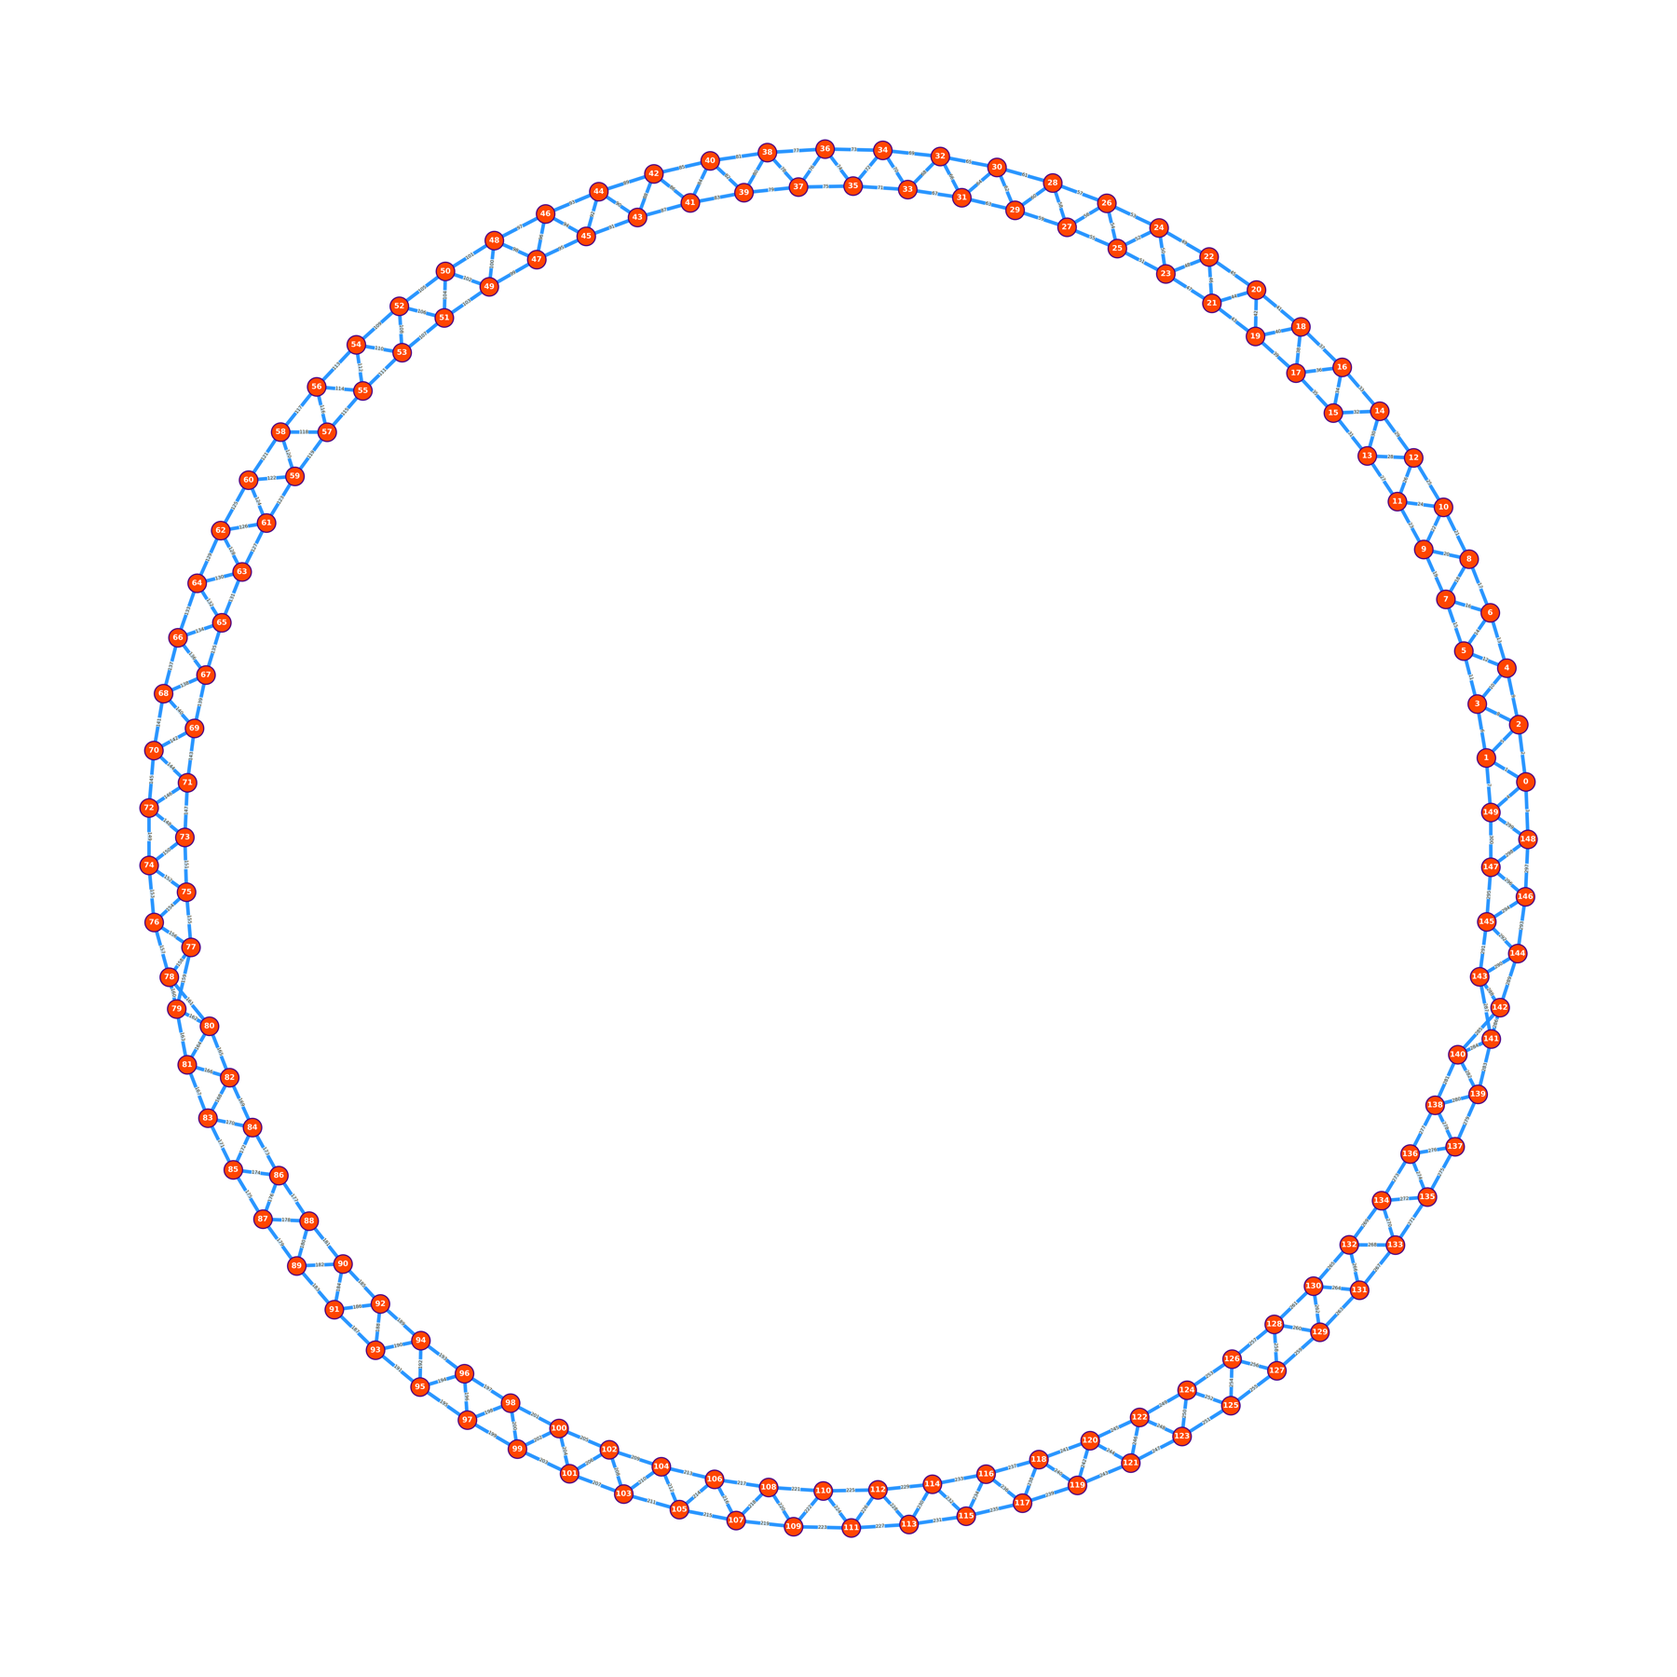
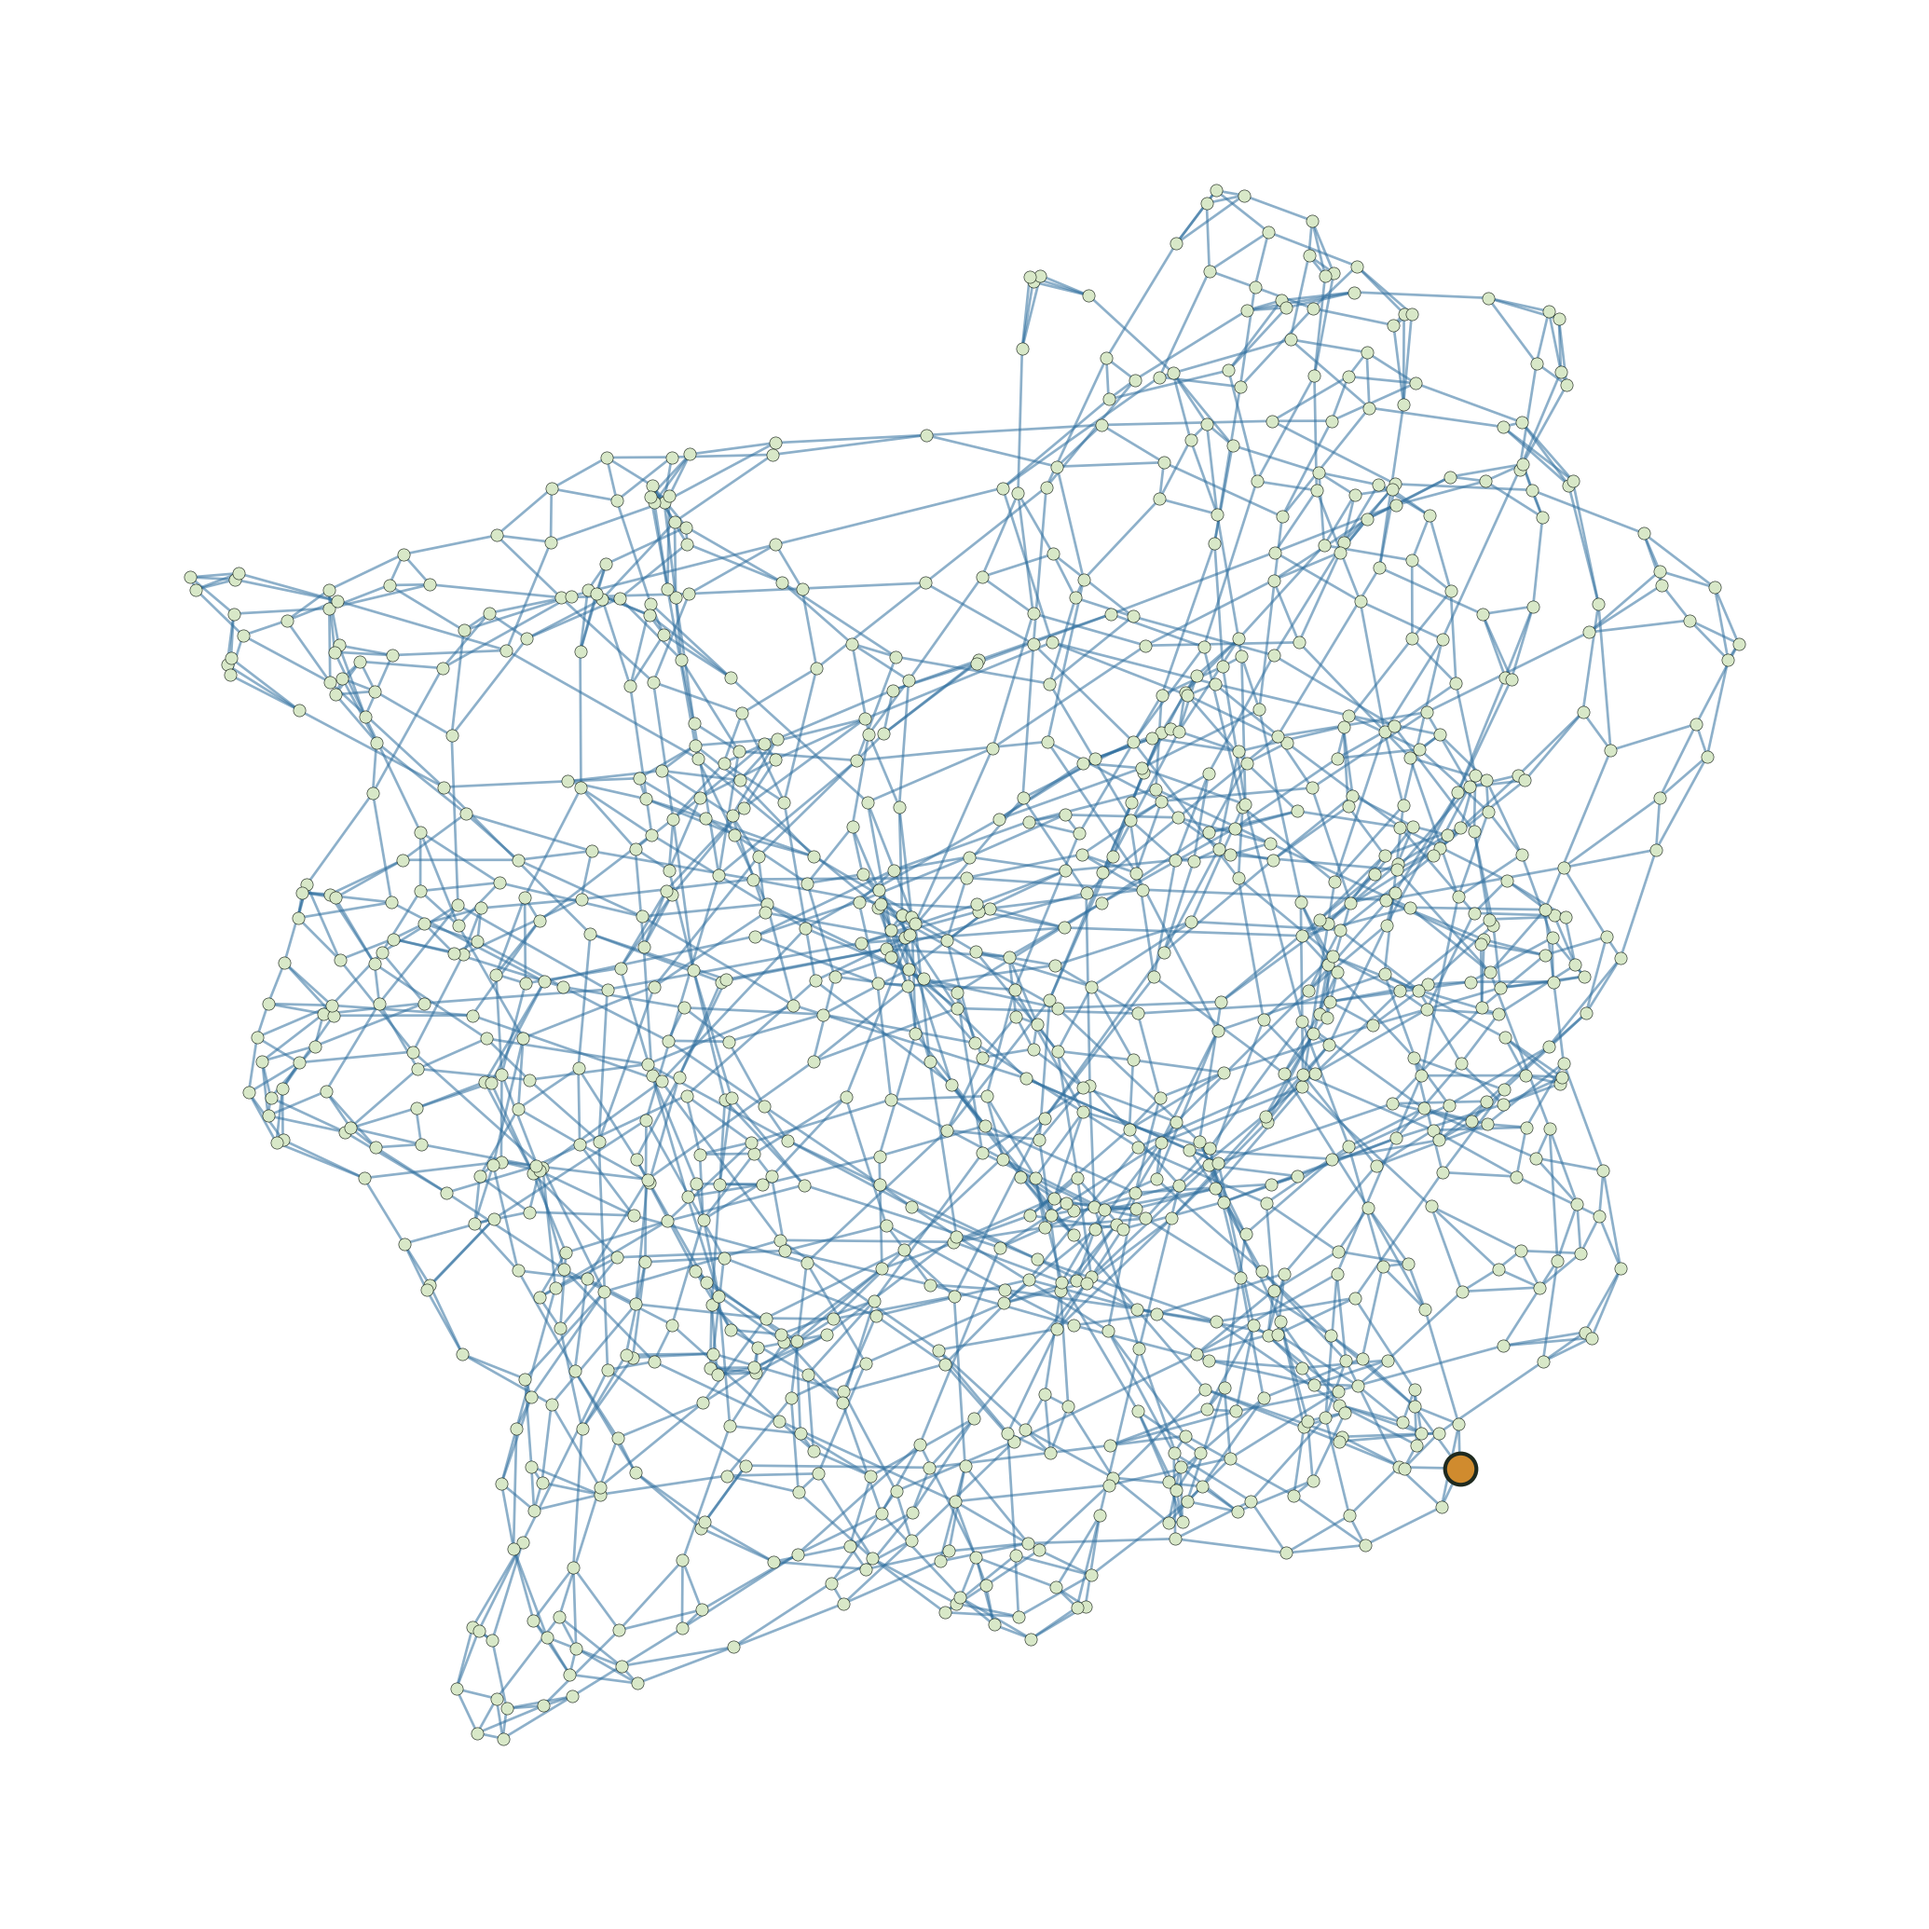
Update README diagrams to large production network

Changed region(s): [[0.0622, 0.0622, 0.9333, 0.9333]]

diff --git a/README.md b/README.md
@@ -134,11 +134,18 @@ python plot_junction_strand_network.py \
 
 ## Network Diagrams
 
-Full junction-strand network:
+The diagrams below show the production n=25, replica 1 network with 900 GLU
+junctions and 1800 PVA strands, corresponding to `examples/production_n25`.
+They represent connectivity rather than molecular geometry.
+
+Full junction-strand network, with the selected junction highlighted and labels
+omitted for clarity:
 
 ![Full junction-strand network](docs/junction_strand_network_readme.png)
 
-Zoomed local junction-strand motif:
+Four-branch local motif extracted from the same network. Node labels identify GLU
+junctions, and edge labels identify PVA strands in the exported graph. The other
+connections of the neighboring junctions are omitted:
 
 ![Zoomed junction-strand motif](docs/junction_strand_network_zoom_readme.png)
 
